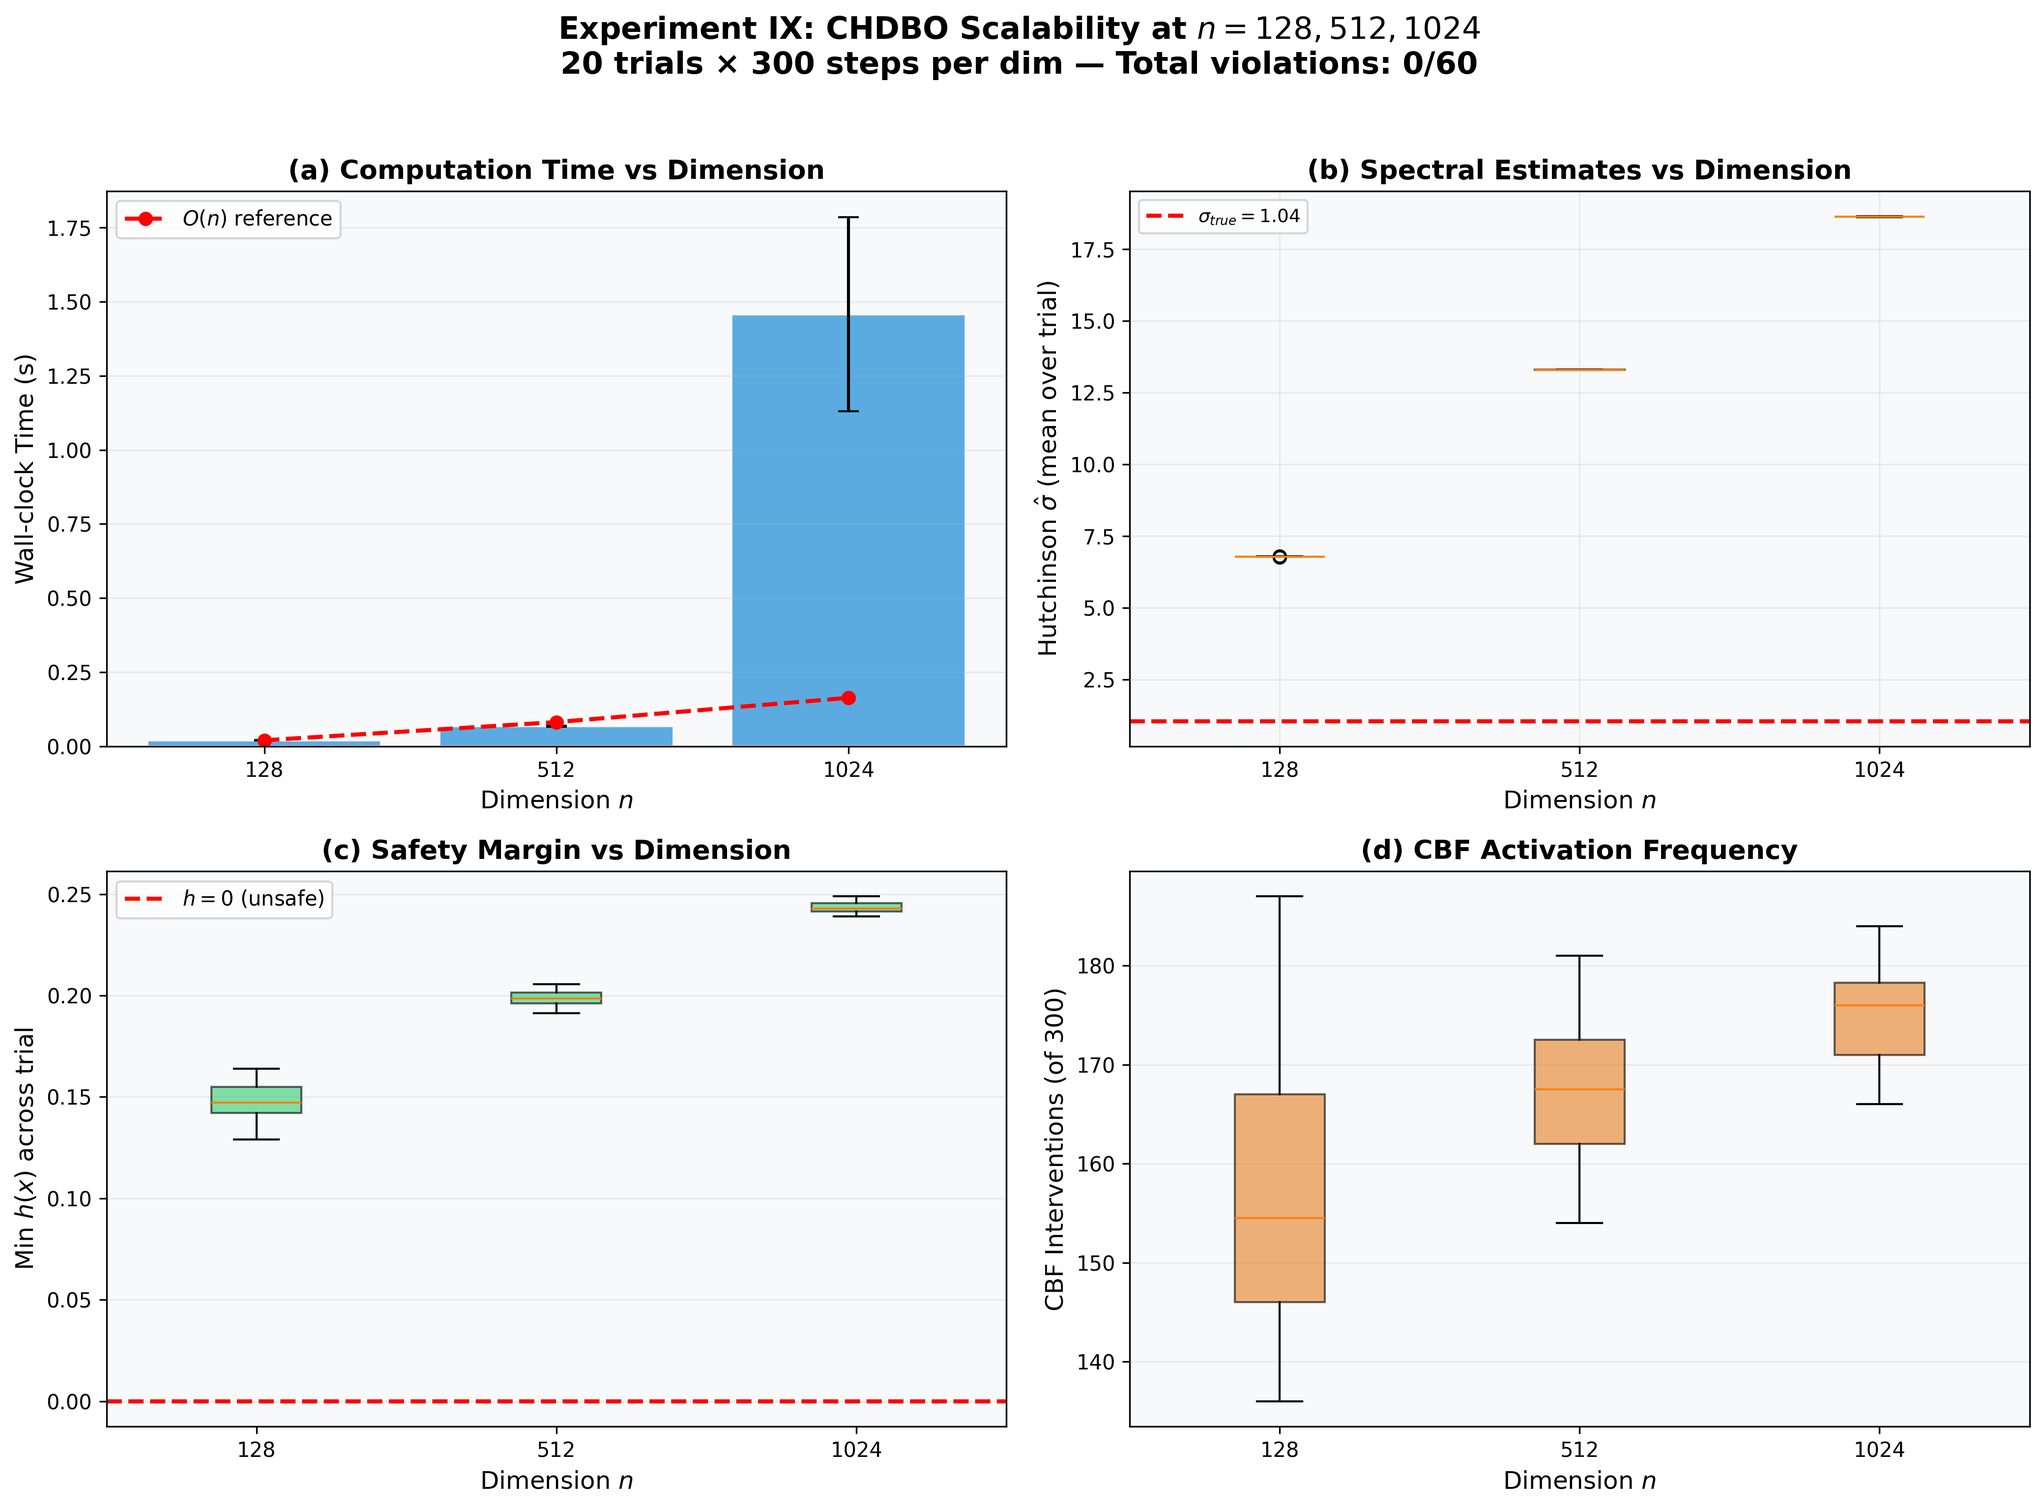
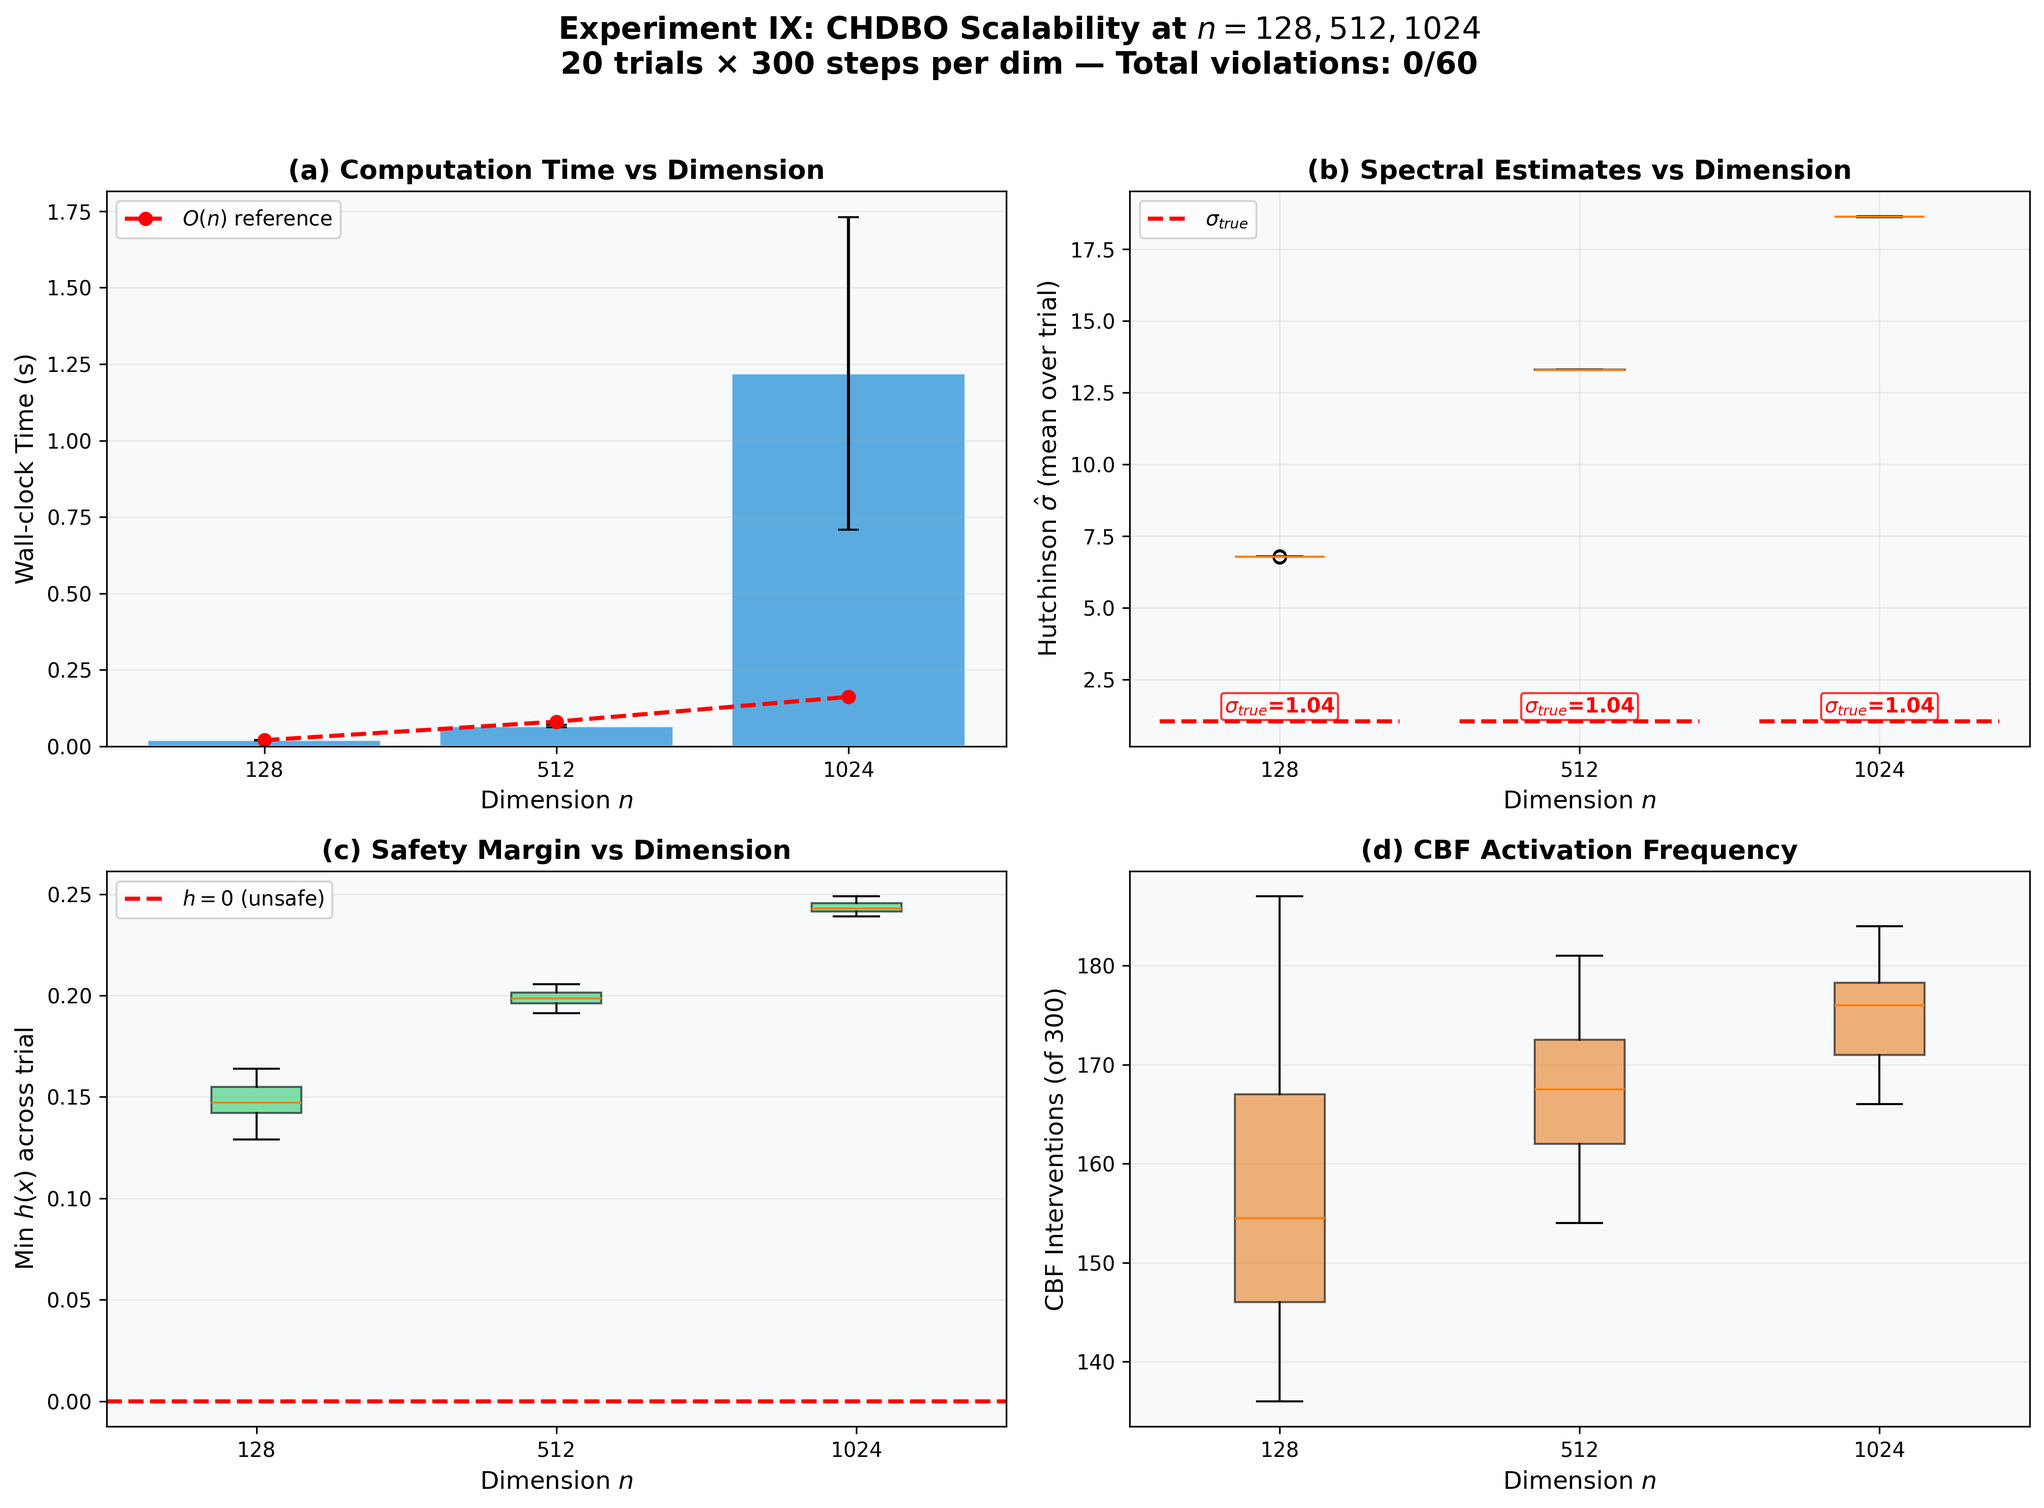
another round of revisions

diff --git a/core_safety/generate_figure_13.py b/core_safety/generate_figure_13.py
@@ -208,17 +208,18 @@ bp_sigma = ax.boxplot(data_sigma, tick_labels=dim_labels, patch_artist=True,
                       boxprops=dict(alpha=0.6))
 for patch, color in zip(bp_sigma['boxes'], colors_sigma):
     patch.set_facecolor(color)
-# Add per-dimension true sigma reference lines
+# Add per-dimension true sigma reference lines with clear labels
 for i, n in enumerate(DIMS):
     st = results[n]['sigma_true']
     ax.hlines(st, i + 0.6, i + 1.4, colors='red', linestyles='--', lw=2,
-              label=f'$\\sigma_{{true}}={st:.2f}$' if i == 0 else '_nolegend_')
-    if i > 0:
-        ax.text(i + 1.05, st + 0.02, f'{st:.2f}', fontsize=8, color='red', ha='left')
+              label='$\\sigma_{true}$' if i == 0 else '_nolegend_')
+    ax.text(i + 1.0, st + 0.3, f'$\\sigma_{{true}}$={st:.2f}',
+            fontsize=10, color='red', ha='center', fontweight='bold',
+            bbox=dict(boxstyle='round,pad=0.15', fc='white', ec='red', alpha=0.8))
 ax.set_xlabel('Dimension $n$', fontsize=12)
 ax.set_ylabel('Hutchinson $\\hat{\\sigma}$ (mean over trial)', fontsize=12)
 ax.set_title('(b) Spectral Estimates vs Dimension', fontsize=13, fontweight='bold')
-ax.legend(fontsize=9, labels=['$\\sigma_{true}$ (per dim)'])
+ax.legend(fontsize=10)
 ax.grid(True, alpha=0.2)
 
 # (c) Min barrier value
@@ -228,7 +229,7 @@ bp = ax.boxplot(data_h, tick_labels=dim_labels, patch_artist=True,
                 boxprops=dict(facecolor='#2ecc71', alpha=0.6))
 ax.axhline(0.0, color='red', ls='--', lw=2, label='$h=0$ (unsafe)')
 ax.set_xlabel('Dimension $n$', fontsize=12)
-ax.set_ylabel('Min $h(x)$ across trial', fontsize=12)
+ax.set_ylabel('Min $h(x)$ across trial', fontsize=12) 
 ax.set_title('(c) Safety Margin vs Dimension', fontsize=13, fontweight='bold')
 ax.legend(fontsize=10)
 ax.grid(True, alpha=0.2, axis='y')

diff --git a/core_safety/prove_utility.py b/core_safety/prove_utility.py
@@ -53,7 +53,7 @@ for i in range(NUM_TRIALS):
     original_velocity = (tangent * np.sqrt(1.0 - alpha**2) + radial * alpha) + noise
     
     # 5. Correction
-    corrected_velocity = orthogonal_projection(state, original_velocity.copy())
+    corrected_velocity = orthogonal_projection(state, original_velocity.copy()) 
     
     # 6. Measure
     sim = cosine_similarity(original_velocity, corrected_velocity)

diff --git a/core_safety/generate_figure_17.py b/core_safety/generate_figure_17.py
@@ -85,7 +85,7 @@ for n in DIMENSIONS:
     violations = 0
     
     for _ in range(N_samples):
-        # Sample uniformly on S^{n-1}
+        # Sample uniformly on S^{n-1} 
         z = np.random.randn(n)
         z = z / np.linalg.norm(z)
         

diff --git a/core_safety/original_paper.md b/core_safety/original_paper.md
@@ -44,7 +44,7 @@
 \maketitle
 
 \begin{abstract}
-Verifying safety constraints in high-dimensional state spaces is computationally intractable for deterministic methods: grid-based Hamilton-Jacobi reachability scales as $O((1/\eta)^n)$, becoming infeasible for $n > 5$. We introduce Constrained High-Dimensional Barrier Optimization (CHDBO), a framework that replaces deterministic enumeration with probabilistic certification. Using Monte Carlo Barrier Certificates bounded by Lipschitz continuity, CHDBO achieves a \textit{dimension-independent sample count} for fixed barrier geometry---$N = O(\frac{1}{\epsilon^2}\ln\frac{1}{\delta})$ samples suffice regardless of $n$, with total cost $O(N \cdot n)$---enabling safety certification for systems with $n \geq 128$. A gradient-based utility maximizer ensures asymptotic convergence to constrained optima without violating the safety envelope. To address rare catastrophic modes invisible to passive sampling, we introduce Active Adversarial Safety Verification (AASV): momentum-accelerated adversarial search with Hutchinson-bounded spectral margins and orthogonal prototype memory, yielding an empirically-calibrated adversarial risk bound with $O(n)$ per-step cost. Experiments across thirteen configurations---including non-trivial drift dynamics, nonlinear chaotic attractors, multi-modal barrier landscapes, seed sensitivity analysis in $\mathbb{R}^{128}$, scalability to $n = 1024$, direct empirical validation of asymptotic utility convergence under adverse drift, and head-to-head comparison with scenario-approach verification---confirm that CHDBO maintains safety while preserving utility.
+Verifying safety constraints in high-dimensional state spaces is computationally intractable for deterministic methods: grid-based Hamilton-Jacobi reachability scales as $O((1/\eta)^n)$, becoming infeasible for $n > 5$. We introduce Constrained High-Dimensional Barrier Optimization (CHDBO), a framework that replaces deterministic enumeration with probabilistic certification. Using Monte Carlo Barrier Certificates bounded by Lipschitz continuity, CHDBO achieves a \textit{dimension-independent sample count} for fixed barrier geometry---$N = O(\frac{1}{\epsilon^2}\ln\frac{1}{\delta})$ samples suffice regardless of $n$, with total cost $O(N \cdot n)$---enabling safety certification for systems with $n \geq 128$. A gradient-based utility maximizer ensures asymptotic convergence to constrained optima without violating the safety envelope. To address rare catastrophic modes invisible to passive sampling, we introduce Active Adversarial Safety Verification (AASV): momentum-accelerated adversarial search with Hutchinson-bounded spectral margins and orthogonal prototype memory, yielding an empirically-calibrated adversarial risk bound with $O(n)$ per-step cost. For multi-modal barrier landscapes, AASV requires structural gradient access via Winner-Take-All (WTA) decomposition (Section~3.5); for single-mode barriers, standard gradients suffice. Experiments across thirteen configurations---including non-trivial drift dynamics, nonlinear chaotic attractors, multi-modal barrier landscapes, seed sensitivity analysis in $\mathbb{R}^{128}$, scalability to $n = 1024$, direct empirical validation of asymptotic utility convergence under adverse drift, and head-to-head comparison with scenario-approach verification---confirm that CHDBO maintains safety while preserving utility.
 \end{abstract}
 
 \section{Introduction}
@@ -81,7 +81,7 @@ The specific contributions of this paper are:
     \item \textbf{Generalization of Semantic Safety:} We extend the invariant preservation principles of \cite{scrivens2026} from holographic memory to continuous control manifolds.
     \item \textbf{High-Dimensional Adaptation of CBF-QP:} We adapt standard Control Barrier Function (CBF) formulations \cite{ames2019, xiao2019} to high-dimensional semantic spaces ($n \ge 128$), building on the growing body of work on learned and neural CBF methods \cite{dawson2023, robey2020, qin2021, fisac2019}. We demonstrate that the quadratic programming (QP) formulation remains computationally tractable ($O(n)$) for real-time semantic steering, overcoming the perceived ``Curse of Dimensionality'' in verification \cite{bellman1957}.
     \item \textbf{Hierarchical Utility Integration:} We provide a lexicographic control architecture that strictly prioritizes safety constraints over utility maximization, ensuring that aggressive performance and rigorous safety are hierarchically integrated rather than competing.
-    \item \textbf{Active Adversarial Safety Verification (AASV):} We introduce an adversarial verification module that replaces passive Monte Carlo sampling with gradient-based adversarial search, Hutchinson-bounded spectral margins \cite{hutchinson1990}, and holographic orthogonal prototype memory, converting the probabilistic ``Black Swan'' vulnerability into a bounded adversarial robustness guarantee while preserving $O(n)$ computational scaling.
+    \item \textbf{Active Adversarial Safety Verification (AASV):} We introduce an adversarial verification module that replaces passive Monte Carlo sampling with gradient-based adversarial search, Hutchinson-bounded spectral margins \cite{hutchinson1990}, and holographic orthogonal prototype memory, converting the probabilistic ``Black Swan'' vulnerability into a bounded adversarial robustness guarantee while preserving $O(n)$ computational scaling. For multi-modal barrier landscapes, this guarantee requires structural gradient access via Winner-Take-All (WTA) decomposition; for barriers with a single dominant failure mode, standard (black-box or oracle) gradients suffice (Section~\ref{sec:wta_limitation}, Experiment~VI).
 \end{itemize}
 
 \subsection{Related Work}
@@ -309,7 +309,7 @@ The MCBC engine (Algorithm~\ref{alg:verify}) certifies that the \textit{volume f
 
 \begin{lemma}[Trajectory Safety from Boundary Certification]
 \label{lem:trajectory_bridge}
-Let $h: \mathbb{R}^n \to \mathbb{R}$ be $L_h$-Lipschitz, and suppose the MCBC certificate guarantees $\hat{P}_{\emph{fail}} < \epsilon$ on $\partial\mathcal{S}$ under a uniform boundary measure $\mu$. Let $x(t)$ be a trajectory of the closed-loop system with CBF-QP control, evolving for $T$ discrete steps of size $\Delta t$. If, at each step, the probability that the trajectory's boundary projection $\emph{Proj}_{\partial\mathcal{S}}(x(t))$ falls in a certified-safe region is at least $1 - \epsilon$, then the probability of encountering at least one infeasible boundary point over the entire trajectory satisfies:
+Let $h: \mathbb{R}^n \to \mathbb{R}$ be $L_h$-Lipschitz, and suppose the MCBC certificate guarantees $\hat{P}_{\emph{fail}} < \epsilon$ on $\partial\mathcal{S}$ under a uniform boundary measure $\mu$. Let $x(t)$ be a trajectory of the closed-loop system with CBF-QP control, evolving for $T$ discrete steps of size $\Delta t$. If, at each step, the trajectory's boundary projection $\emph{Proj}_{\partial\mathcal{S}}(x(t))$ is distributed according to $\mu$ (or absolutely continuous with respect to $\mu$), so that the probability it falls in a certified-safe region is at least $1 - \epsilon$, then the probability of encountering at least one infeasible boundary point over the entire trajectory satisfies:
 \begin{equation}
     P\!\left(\exists\, t \in \{1,\ldots,T\} : \text{CBF-QP infeasible at } x(t)\right) \leq T \cdot \epsilon
 \end{equation}
@@ -658,7 +658,11 @@ To prove the scalability of CHDBO, we extended the simulation to 128 dimensions,
 This result validates that the ``Curse of Dimensionality'' \cite{bellman1957} is effectively mitigated for safety verification; the sample complexity remained constant ($O(1)$) despite the exponential increase in state space volume, with per-sample computational cost scaling linearly ($O(n)$).
 
 \subsection{Experiment III: Proportional Safety Response}
-A critical requirement for autonomous agents is that safety measures should not destroy utility unless absolutely necessary. We stress-tested the system by varying the ``Adversarial Intensity'' ($\alpha$) of the agent's intent from 0.0 (Pure Safe) to 1.0 (Pure Malicious).
+A critical requirement for autonomous agents is that safety measures should not destroy utility unless absolutely necessary. We stress-tested the system by varying the ``Adversarial Intensity'' ($\alpha$) of the agent's intent from 0.0 (Pure Safe) to 1.0 (Pure Malicious). Specifically, $\alpha$ parameterizes the \textit{angular deviation} from the tangent plane: the intent velocity is constructed as
+\[
+    v = \sqrt{1-\alpha^2}\,\hat{t} + \alpha\,\hat{r},
+\]
+where $\hat{t}$ is the unit tangent direction and $\hat{r}$ is the inward radial (unsafe) direction, so that $\alpha = \sin\theta$ where $\theta$ is the angle between the intent and the safety boundary. This ensures $\|v\| = 1$ (before noise) and produces the Pythagorean geometric decay $\sqrt{1-\alpha^2}$ in Semantic Preservation after orthogonal projection.
 
 \begin{itemize}
     \item \textbf{Metric:} We measured Semantic Preservation (Cosine Similarity) between the agent's intended action vector and the allowed action vector.
@@ -976,7 +980,7 @@ Our empirical results confirm five critical advancements:
     \item \textbf{Safety is Probabilistically Scalable:} Through Monte Carlo barrier certificates bounded by Lipschitz continuity, we can verify the boundary consistency of $\mathbb{R}^{128}$ manifolds with high statistical confidence ($1-\delta$), bounding the volume fraction of failure modes. Lemma~\ref{lem:trajectory_bridge} formally connects this boundary-level certificate to trajectory-level safety via a union bound.
     \item \textbf{Utility is Asymptotic:} By projecting utility gradients onto the tangent cone of the safe set, we ensure that agents do not merely survive, but thrive, converging to global optima without violating invariant constraints. Experiment~XI provides direct empirical validation of Theorem~\ref{thm:safe_convergence}'s convergence guarantee under linear drift in $\mathbb{R}^{128}$.
     \item \textbf{The Trade-off is False:} We have demonstrated that aggressive performance and rigorous safety are not mutually exclusive. An agent can operate at the very edge of the safe set $\mathcal{S}$ without ever crossing the line into failure.
-    \item \textbf{Black Swans are Huntable:} The AASV module transitions safety assurance from passive statistical estimation to active, optimization-based threat hunting, with the formal detection bound of Theorem~\ref{thm:aasv_detection}. Across eight configurations in $\mathbb{R}^{128}$---including orthogonal, antipodal, clustered, and random spike geometries---standard Monte Carlo sampling detected zero injected singularities, while AASV's WTA-accelerated PGD located all spikes (up to 20/20 with $k=60$ restarts) with perfect reproducibility across 10 independent seeds (Experiment~VII). The WTA gradient decomposition is demonstrated to be essential for multi-modal landscapes (Experiment~VI), while the framework generalizes to non-trivial drift dynamics including double-integrator systems (Experiment~V), coupled chaotic nonlinear dynamics (Lorenz-type attractor with inter-triplet diffusive coupling in $\mathbb{R}^{128}$, Experiment~VIII), and scales practically to $n = 1024$ with integrated Hutchinson spectral margins (Experiment~IX). Furthermore, a head-to-head benchmark against the OSQP solver confirms that the closed-form CBF-QP achieves 63--400$\times$ speedups across $n = 64$ to $2048$ (Experiment~X), validating the $O(n)$ real-time feasibility claim.
+    \item \textbf{Black Swans are Huntable (with Structural Gradient Access):} The AASV module transitions safety assurance from passive statistical estimation to active, optimization-based threat hunting, with the formal detection bound of Theorem~\ref{thm:aasv_detection}. Across eight configurations in $\mathbb{R}^{128}$---including orthogonal, antipodal, clustered, and random spike geometries---standard Monte Carlo sampling detected zero injected singularities, while AASV's WTA-accelerated PGD located all spikes (up to 20/20 with $k=60$ restarts) with perfect reproducibility across 10 independent seeds (Experiment~VII). Critically, the WTA gradient decomposition is \textit{necessary} for multi-modal landscapes: the full gradient $\nabla h$ (oracle or finite-difference) converges to a centroid saddle, achieving 0/3 detection vs.\ 3/3 with WTA (Experiment~VI). For single-mode barriers---common in operational safety (e.g., collision boundaries)---standard gradients suffice. The framework generalizes to non-trivial drift dynamics including double-integrator systems (Experiment~V), coupled chaotic nonlinear dynamics (Lorenz-type attractor with inter-triplet diffusive coupling in $\mathbb{R}^{128}$, Experiment~VIII), and scales practically to $n = 1024$ with integrated Hutchinson spectral margins (Experiment~IX). Furthermore, a head-to-head benchmark against the OSQP solver confirms that the closed-form CBF-QP achieves 63--400$\times$ speedups across $n = 64$ to $2048$ (Experiment~X), validating the $O(n)$ real-time feasibility claim.
     \item \textbf{Convergence is Empirically Validated:} Experiment~XI demonstrates that the CBF-QP control law drives the system toward the constrained optimum under adverse linear drift, with 0/24{,}000 safety violations across 20 trials, confirming the joint safety-utility guarantee of Theorem~\ref{thm:safe_convergence}.
 \end{enumerate}
 
